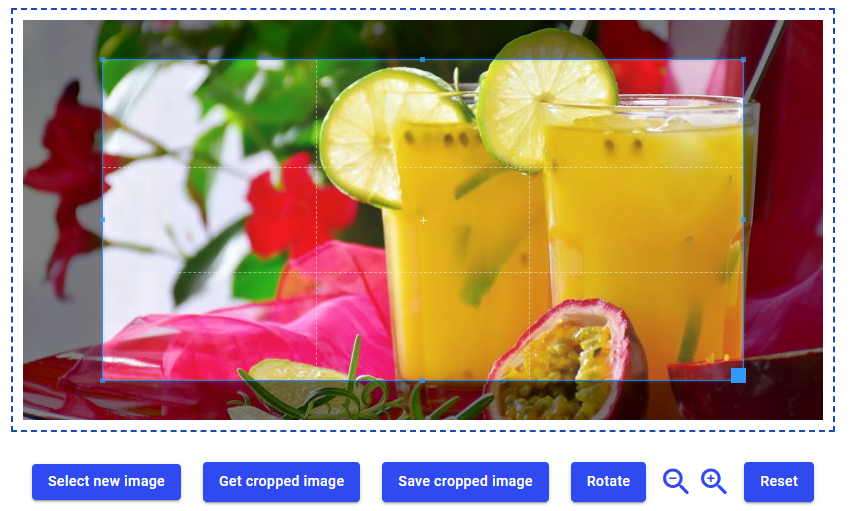
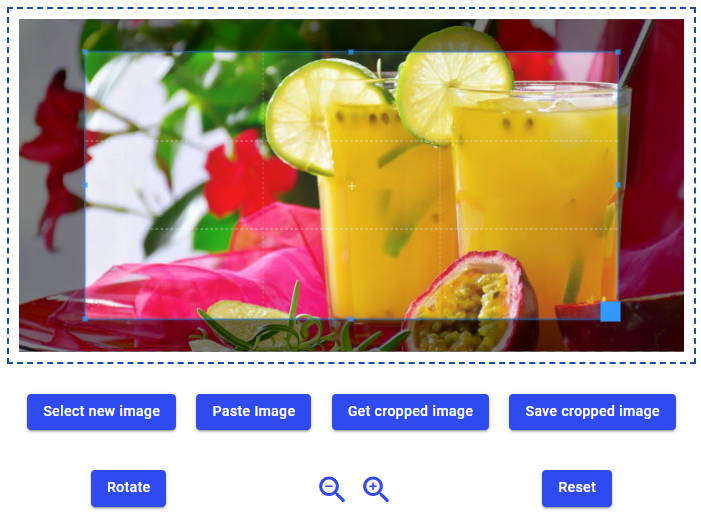
docu update

diff --git a/KK_ResizedCroppedImageUploader/README.md b/KK_ResizedCroppedImageUploader/README.md
@@ -1,39 +1,70 @@
 # KK_ResizedCroppedImageUploader
 
-## Purpose
-- selects an image from local file system, camera, or clipboard
-- optionally rotates the image
-- optionally crops an area of interest
-- optionally saves the image to Backendless file system with reduced size (width, height) and reduced quality (for lossy image formats) and desired image type.
-
->**Disclaimer**: This component is not released for productive use yet. No warranties!
-
-## General usage
-1. Place a Block-UI-component on a page where you want to display the preview of image to be uploaded. Adjust the dimensions and other properties of this Block-component to your needs.
-2. Place the custom component KK_ResizedCroppedImageUploader into the Block-component. 
-3. Fill the ``Id`` property in the side panel. Otherwise, you will not be able to work with actions.
-4. Place buttons on your page and in the respective "On Click Event"-handlers call one of the custom component actions. An example how this can look like is shown here:
-![sample](./assets/sample.png)
+## Use Cases
+- Select an image from local file system, camera, or clipboard
+- Rotate the image
+- Crop an area of interest
+- Save the image to Backendless file system with reduced size (width, height) and reduced quality (for lossy image formats) and desired image type.
 
 <br>
+
+> ---
+>**Disclaimer**: This component is not released for productive use yet. No warranties!
+> ---
+
+<br>
+
+## General usage
+1. Place a Block-UI-component on a page where you want to display the preview of an image to be uploaded. Adjust the dimensions and other properties of this Block-component to your needs.
+2. Place the custom component ``KK_ResizedCroppedImageUploader`` into the Block-component. 
+3. Fill the ``Id`` property of the custom component in the side panel. Otherwise, you will not be able to work with actions.
+4. Place buttons on your page. In the respective "On Click Event"-handlers call one of the custom component actions. An example how this can look like is shown here:
+![sample](./assets/sample.png)
+By default, a resizable crop box is shown after an image has been selected.
+
+<br>
+<br>
+
+## Properties
+
+### No Crop Box
+Boolean. If checked, no resizable crop area is shown above the image. Still, parts of the image can be cropped, by zooming-in and moving the image along the canvas. The save and crop action will then crop the visible part of the image.
+
+### Min Canvas Width
+By default, the canvas size is set to the size of loaded image, of course within the constraints set by the surrounding Block-UI-component. If you deal with very small image, it can make sense to set a minimal canvas size in pixel. It is recommended to then either set ``Min Canvas Width`` or ``Min Canvas Height``. The property which is not set will be computed to match the image width-to-height ratio.
+
+### Min Canvas Height
+See ``Min Canvas Width``.
+
 <br>
 
 ## Actions
 For each nocode-block of an action, you have to select the ``Id`` of the custom component instance, which you placed on the page.
 
+<br>
+
 ### Select Image
 *Input parameters:* None
 
-An image selection dialog is shown, which depends on the device. On mobiles, you can typically capture a live camera image in addition to selection an existing image from the device.
+An image selection dialog is shown, which depends on the device. On mobiles, you can typically capture a live camera image in addition to selecting an existing image from the device.
 
 *Example*:
+
 ![On Click Handler](./assets/select.png)
+
+### Paste Image
+*Input parameters:* None
+
+An image is inserted from the device clipboard. If this is done for the first time, the device will ask for permissions for this operation. If you do not grant permission, the paste operation will fail. 
+
+> **Note:** The paste action does not work on all browsers (yet). For instance, Firefox is not supporting the required permission. Therefore, if you want to leverage this action, test with the browser versions relevant for you.
 
 ### Rotate Image
 *Input parameters:* 
 - ``Degree``: The amount of rotation degrees. Can be a positive or negative number.
 
 *Example*:
+
 ![On Click Handler](./assets/rotate.png)
 
 
@@ -44,10 +75,26 @@ An image selection dialog is shown, which depends on the device. On mobiles, you
 > Note: Zooming-in/out is  just a visual effect. The actual image file size and content is not changed.
 
 *Example*:
+
 ![On Click Handler](./assets/zoom.png)
 
+<br>
 
 ### Save Cropped Image
+Uploads the crop area of the image to the Backendless file system. An image can be scaled along its width or height dimension and the image encoding type can be chosen (jpeg, webp, png, etc.). For image types supporting lossy compression (e.g. jpeg, webp) the amount of compression can be specified.
+
+*Input parameters:*
+- ``No Scaling``: Optional. Default is ``false``. If set to ``true`` images are not scaled when extracted or saved from the canvas. In this case, the parameters ``Scaling Dimension`` and ``Pixel Size`` are ignored.
+- ``File Name``: Optional. The name of the file to be saved (including file extension). If omitted, the name of the selected file is used, where the file extension is set according to the input parameter ``Image Type``. If an image is pasted from the clipboard and ``File Name`` is omitted, a name "fromClipboard``wxyz``.png" is generated, where ``wxyz`` is a random 4-digit number.
+- ``File Path``: Mandatory. The target path on the Backendless file system, for example ``/web/tmp/``. The current user must have the appropriate permissions to create and write files.
+- ``Scaling Dimension``: Optional. Valid values are ``width`` and ``height``. Before uploading the image to the Backendless file system, it can be scaled along either its width or height dimension.
+- ``Pixel Size``: Optional. The amount of pixels to be set for the selected scaling dimension. The number of pixels for the other dimension is computed in a way that does not change the image aspect ratio.
+- ``Compression Ratio``: Optional. A number between ``0`` and ``1``. The default is ``0.8``. Is applied if the resulting image type supports lossy compression (e.g., ``jpg``, ``webp``).
+- ``Image Type``: Optional. The image encoding type (``jpg``, ``png``, etc.) of images extracted from the canvas. If omitted, the type is taken from the specified filename.
+
+
+
+<br>
 
 ### Get Cropped Image
 
@@ -55,14 +102,6 @@ An image selection dialog is shown, which depends on the device. On mobiles, you
 
 <br>
 <br>
-
-## Properties
-
-### Title
-The text to be shown as popup title. Can be HTML.
-
-### Content
-The text to be shown as popup content. Can be HTML.
 
 
 ## Styling
